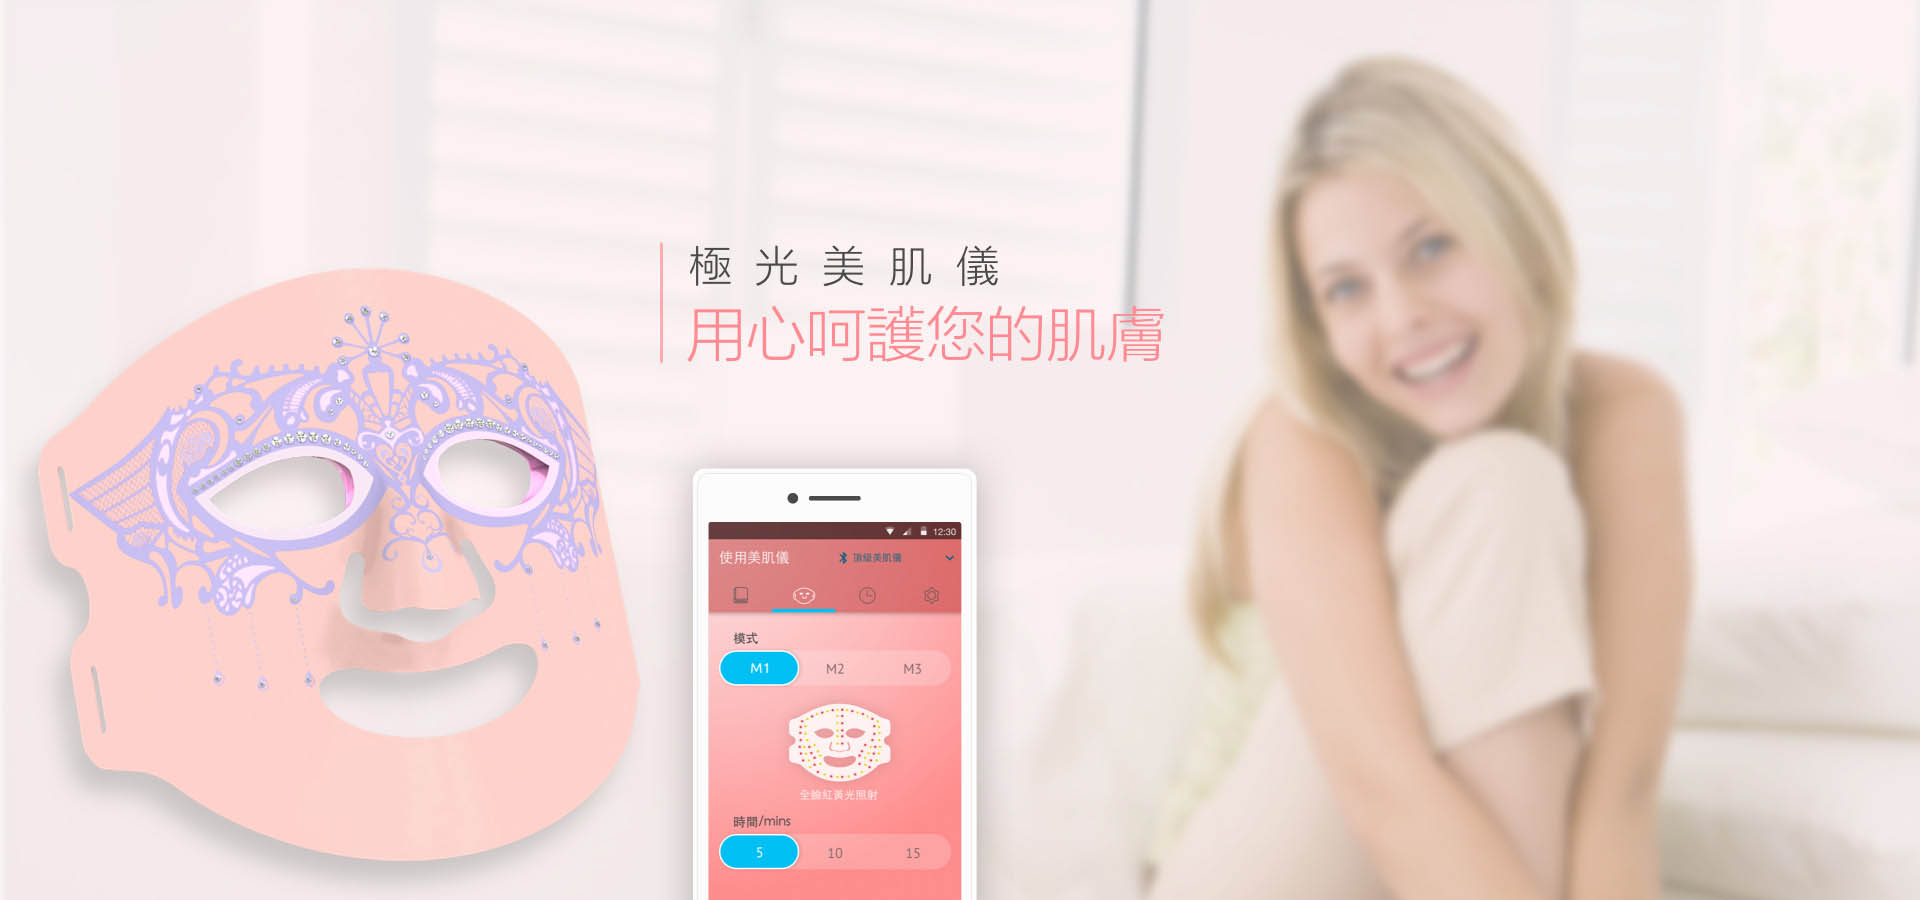
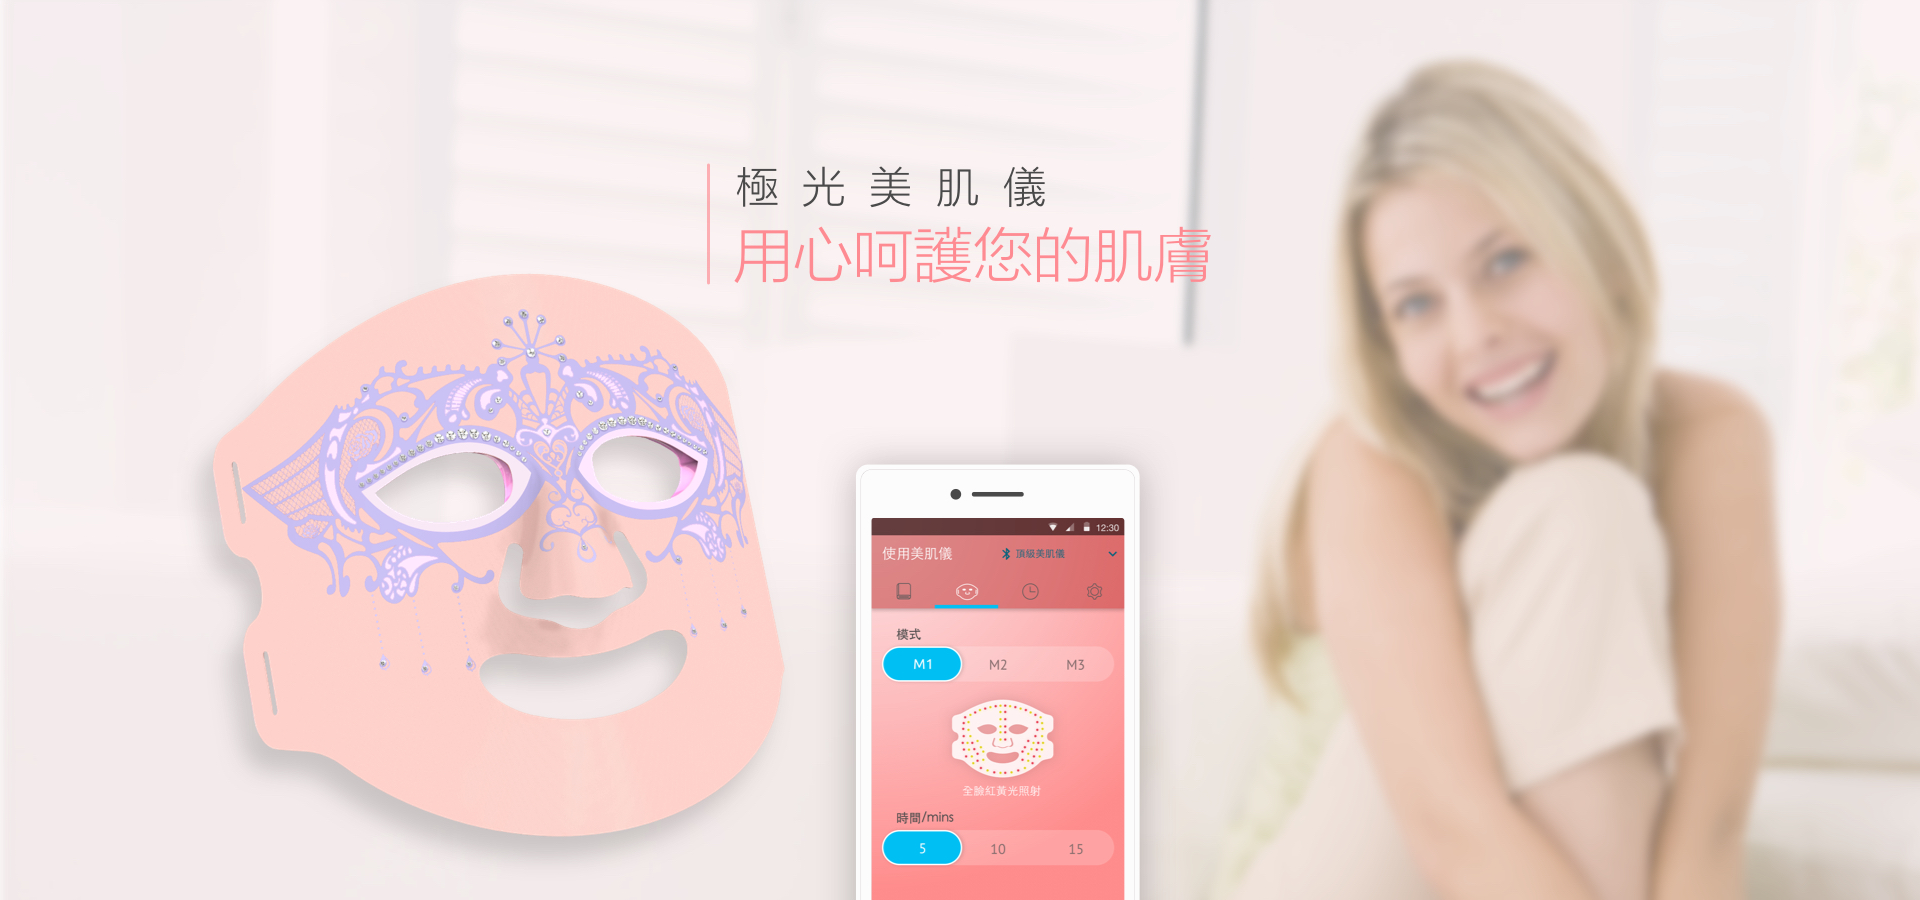
Add files via upload

diff --git a/index.html b/index.html
@@ -54,13 +54,13 @@
                                 <a href="#" data-id="intro" id="lang_nav_intro">產品介紹<span class="sr-only">(current)</span></a>
                             </li>
                             <li>
-                                <a href="#" data-id="contactus" id="lang_nav_contact">與我們聯絡</a>
+                                <a href="#" data-id="pspec" id="lang_nav_spec">產品規格</a>
                             </li>
                             <li>
                                 <a href="#" data-id="ddownload" id="lang_nav_download">下載</a>
                             </li>
                             <li>
-                                <a href="#" data-id="pspec" id="lang_nav_spec">產品規格</a>
+                                <a href="#" data-id="contactus" id="lang_nav_contact">與我們聯絡</a>
                             </li>
                             <!--  <li class="dropdown">
                                 <a href="#" class="dropdown-toggle" data-toggle="dropdown" role="button" aria-expanded="false" id="lang_nav_more">更多<span class="caret"></span></a>
@@ -183,7 +183,7 @@
                             <p class="stonee" id="lang_body_auromask_blue">平衡肌膚油水<br>擊退粗糙毛孔</p>
                         </div>
                     </div>
-                </div>                                                                                                                                                                                                                                                                                                                                                                                 
+                </div>                                                                                                                                                                                                                                                                                                                                                                                                 
             </div>
             <div class="col-md-6 COMEFROME_RIGHT">
                 <!--  <img src="images/img_prettywoman2.jpg" class="img-responsive">-->
@@ -290,7 +290,7 @@
                     <div class="col-md-6 col-xs-12 features_images">
                         <div class="row">
                             <div class="underlined-title">
-                                <h3 class="six" id="lang_body_sixfeatures">六大特點</h3>
+                                <h3 class="six" id="lang_body_sixfeatures">為什麼選擇極光美肌儀</h3>
                                 <hr>
                             </div>
                             <div class="col-md-4">
@@ -376,7 +376,7 @@
             <div class="container">
                 <div class="row">
                     <div class="underlined-title">
-                        <h3 id="lang_body_certificate">安心保證</h3>
+                        <h3 id="lang_body_certificate">為您的美麗嚴格把關</h3>
                         <hr>
                     </div>
                     <div class="col-md-6 col-xs-12">
@@ -579,7 +579,7 @@
             <div>
                 <div class="row">
                     <div class="col-sm-6 col-xs-12 content pull-left">
-                        <h3 id="lang_body_led">LED 光效說明</h3>
+                        <h3 id="lang_body_led">為什麼使用LED光源？</h3>
                         <p id="lang_body_led_cont1">LED是一種低能量的可見光源, 最初由美國太空總署(NASA)證實,使用特定波長LED光照射皮膚可刺激細胞增生,以及加速傷口癒合</p>
                         <p id="lang_body_led_cont2">國內外醫學研究及報導後續證實,LED紅光,黃光,藍光在特定波長範圍內確實對皮膚可產生不同功效</p>
                         <p class="introled" id="lang_body_led_cont3">生物刺激原理 （非侵入式, 無破壞性）</p>
@@ -706,40 +706,82 @@
 
     </section>
     ---->
-  <section id="contactus">
-      <div id="newsletter" class="container">
-          <div id="contactus" class="title">
-            <h2 id="lang_body_contactus">與我們聯絡</h2>
-            <span class="byline" id="lang_body_contactus_cont">若您有任何疑問，歡迎與我們聯繫</span>
-          </div>
-          <div class="row">
-            <div class="col-md-6 col-md-offset-3 wow fadeIn padding8p" data-wow-duration="1.5s" data-wow-delay="0.5s">
-                <form onsubmit="return false;">
-                    <div class="half">
-                        <div class="6u">
-                            <input type="text" class="text" name="name" placeholder="Name" id="userName" />
-                        </div>
-                        <div class="6u">
-                            <input type="text" class="text" name="email" placeholder="Email" id="userEmail" />
-                        </div>
-                    </div>
-                    <div class="half">
-                        <div class="12u">
-                            <textarea name="message" placeholder="Message" id="userMessage"></textarea>
-                        </div>
-                    </div>
-                    <div class="row">
-                        <div class="12u">
-                            <a class="button" onclick="sendMessage()" id="lang_body_contactus_button">發送訊息</a>
-                        </div>
-                    </div>
-                </form>
+<!--Product Spec---->
+<section id="spec" class="SPEC_BG bg-offwhite">
+    <div id="pspec" class="container">
+        <!---<img src="images/PM2.52_bg.jpg" class="img-responsive center-block">-->
+        <div class="row">
+            <div class="col-md-12">
+                <div class="underlined-title">
+                    <h3 id="lang_body_spec">產品規格</h3>
+                    <hr>
+                </div>
+            </div>
+            <div class="row">
+                <div class="col-md-8 col-md-offset-2">
+                    <table class="table table-striped" style="width:100%">
+                        <caption></caption>
+                        <thead>
+                            <!--<tr>
+                                    <th id="lang_body_spec_left_tl">Item</th>
+                                    <th id="lang_body_spec_right_tl">Description</th>
+                                </tr>---->
+                        </thead>
+                        <tbody>
+                            <tr>
+                                <td id="lang_body_spec_left_cont1">LED燈數</td>
+                                <td id="lang_body_spec_right_cont1">經典: 紅光-90顆 or 黃光-90顆<br>頂級: 紅光-45顆+黃光-45顆+藍光-57顆 (總共147顆)</td>
+                            </tr>
+                            <tr>
+                                <td id="lang_body_spec_left_cont2">輸入電壓</td>
+                                <td id="lang_body_spec_right_cont2">AC 100-240V</td>
+                            </tr>
+                            <tr>
+                                <td id="lang_body_spec_left_cont3">輸入頻率</td>
+                                <td id="lang_body_spec_right_cont3">50-60HZ</td>
+                            </tr>
+                            <tr>
+                                <td id="lang_body_spec_left_cont4">輸出電壓</td>
+                                <td id="lang_body_spec_right_cont4">DC 5V/2A</td>
+                            </tr>
+                            <tr>
+                                <td id="lang_body_spec_left_cont5">電池續航力</td>
+                                <td id="lang_body_spec_right_cont5">充飽電可使用約60分鐘</td>
+                            </tr>
+                            <tr>
+                                <td id="lang_body_spec_left_cont6">體感溫度</td>
+                                <td id="lang_body_spec_right_cont6">37 °C +/ - 2 °C</td>
+                            </tr>
+                            <tr>
+                                <td id="lang_body_spec_left_cont7">無線功能</td>
+                                <td id="lang_body_spec_right_cont7">低功率藍芽 (BLE)</td>
+                            </td>
+                            <tr>
+                                <td id="lang_body_spec_left_cont8">面膜尺寸</td>
+                                <td id="lang_body_spec_right_cont8">270mm x 204mmx15.6mm</td>
+                            </td>
+                            <tr>
+                                <td id="lang_body_spec_left_cont9">控制器尺寸</td>
+                                <td id="lang_body_spec_right_cont9">50mm x 86mm x29.8mm</td>
+                            </td>
+                            <tr>
+                                <td id="lang_body_spec_left_cont10">面膜重量</td>
+                                <td id="lang_body_spec_right_cont10">150g</td>
+                            </td>
+                            <tr>
+                                <td id="lang_body_spec_left_cont11">控制器重量</td>
+                                <td id="lang_body_spec_right_cont11">90g</td>
+                            </td>
+                        </tr>
+                    </tbody>
+                </table>
             </div>
         </div>
     </div>
 </section>
+<!---End of Product Spec--->
 <!--Download-->
-<section id="load" class="DOWNLOAD bg-offwhite">
+<section id="load" class="DOWNLOAD bg-white">
     <div id="ddownload" class="container">
         <div class="underlined-title">
             <h3 id="lang_body_dowmload">下載</h3>
@@ -788,11 +830,45 @@
                 </div>
             </div>
             <!--<div class="row">
-              <div class="col-md-4 BUTTON" >
-              <a href="http://www.eql.com.tw/homePage.html" target="_blank">DOWNLOAD</a>
-              </div>
-            </div>-->
+                  <div class="col-md-4 BUTTON" >
+                  <a href="http://www.eql.com.tw/homePage.html" target="_blank">DOWNLOAD</a>
+                  </div>
+                </div>-->
         </div>
+</section>
+<!--End of Download-->
+<!-- Contact Us-->
+<section id="contactus">
+    <div id="newsletter" class="container">
+        <div id="contactus" class="title">
+            <h2 id="lang_body_contactus">與我們聯絡</h2>
+            <span class="byline" id="lang_body_contactus_cont">若您有任何疑問，歡迎與我們聯繫</span>
+        </div>
+        <div class="row">
+            <div class="col-md-6 col-md-offset-3 wow fadeIn padding8p" data-wow-duration="1.5s" data-wow-delay="0.5s">
+                <form onsubmit="return false;">
+                    <div class="half">
+                        <div class="6u">
+                            <input type="text" class="text" name="name" placeholder="Name" id="userName" />
+                        </div>
+                        <div class="6u">
+                            <input type="text" class="text" name="email" placeholder="Email" id="userEmail" />
+                        </div>
+                    </div>
+                    <div class="half">
+                        <div class="12u">
+                            <textarea name="message" placeholder="Message" id="userMessage"></textarea>
+                        </div>
+                    </div>
+                    <div class="row">
+                        <div class="12u">
+                            <a class="button" onclick="sendMessage()" id="lang_body_contactus_button">發送訊息</a>
+                        </div>
+                    </div>
+                </form>
+            </div>
+        </div>
+    </div>
 </section>
 <!--  <section class="content-block pricing-table-2">
             <div class="container">
@@ -851,78 +927,6 @@
             </div>
 
         </section> ------>
-<section id="spec" class="SPEC_BG bg-clouds">
-    <div id="pspec" class="container">
-        <!---<img src="images/PM2.52_bg.jpg" class="img-responsive center-block">-->
-        <div class="row">
-            <div class="col-md-12">
-                <div class="underlined-title">
-                    <h3 id="lang_body_spec">產品規格</h3>
-                    <hr>
-                </div>
-            </div>
-            <div class="row">
-                <div class="col-md-8 col-md-offset-2">
-                    <table class="table" style="width:80%">
-                        <caption></caption>
-                        <thead>
-                            <!--<tr>
-                                <th id="lang_body_spec_left_tl">Item</th>
-                                <th id="lang_body_spec_right_tl">Description</th>
-                            </tr>---->
-                        </thead>
-                        <tbody>
-                            <tr>
-                                <td id="lang_body_spec_left_cont1">LED燈數</td>
-                                <td id="lang_body_spec_right_cont1">經典: 紅光-90顆 or 黃光-90顆<br>頂級: 紅光-45顆+黃光-45顆+藍光-57顆 (總共147顆)</td>
-                            </tr>
-                            <tr>
-                                <td id="lang_body_spec_left_cont2">輸入電壓</td>
-                                <td id="lang_body_spec_right_cont2">AC 100-240V</td>
-                            </tr>
-                            <tr>
-                                <td id="lang_body_spec_left_cont3">輸入頻率</td>
-                                <td id="lang_body_spec_right_cont3">50-60HZ</td>
-                            </tr>
-                            <tr>
-                                <td id="lang_body_spec_left_cont4">輸出電壓</td>
-                                <td id="lang_body_spec_right_cont4">DC 5V/2A</td>
-                            </tr>
-                            <tr>
-                                <td id="lang_body_spec_left_cont5">電池續航力</td>
-                                <td id="lang_body_spec_right_cont5">充飽電可使用約60分鐘</td>
-                            </tr>
-                            <tr>
-                                <td id="lang_body_spec_left_cont6">體感溫度</td>
-                                <td id="lang_body_spec_right_cont6">37 °C +/ - 2 °C</td>
-                            </tr>
-                            <tr>
-                                <td id="lang_body_spec_left_cont7">無線功能</td>
-                                <td id="lang_body_spec_right_cont7">低功率藍芽 (BLE)</td>
-                            </td>
-                            <tr>
-                                <td id="lang_body_spec_left_cont8">面膜尺寸</td>
-                                <td id="lang_body_spec_right_cont8">270mm x 204mmx15.6mm</td>
-                            </td>
-                            <tr>
-                                <td id="lang_body_spec_left_cont9">控制器尺寸</td>
-                                <td id="lang_body_spec_right_cont9">50mm x 86mm x29.8mm</td>
-                            </td>
-                            <tr>
-                                <td id="lang_body_spec_left_cont10">面膜重量</td>
-                                <td id="lang_body_spec_right_cont10">150g</td>
-                            </td>
-                            <tr>
-                                <td id="lang_body_spec_left_cont11">控制器重量</td>
-                                <td id="lang_body_spec_right_cont11">90g</td>
-                            </td>
-                        </tr>
-                    </tbody>
-                </table>
-            </div>
-        </div>
-    </div>
-</section>
 <!-- <section id="content-2-6" class="content-block content-2-6 weather">
             <div class="container text-center">
                 <div class="col-sm-10 col-sm-offset-1">
@@ -1059,6 +1063,3 @@
 <script type="text/javascript" src="components/pg.blocks/js/bskit-scripts.js"></script>
 <script type="text/javascript" src="https://maps.google.com/maps/api/js?sensor=true"></script>
 <script type="text/javascript" src="js/J_S_Multi_language_LT_v0.9.js"></script>
-
-</body>
-</html>

diff --git a/css/eql_essence.css b/css/eql_essence.css
@@ -188,7 +188,7 @@
 }
 
 .COMEFROME_RIGHT {
-	background-image: url(../images/img_prettywoman2.jpg);
+	background-image: url(../images/img_prettywoman03.jpg);
 	background-position: center center;
   background-size: cover;
   padding: 0;
@@ -414,7 +414,6 @@ padding-bottom: 60px;
 padding-top: 5px;
 padding-bottom: 5px;
 text-align: center;
-display: inline-block;
 }
 
 .ledstatus_text{
@@ -622,10 +621,9 @@ margin: 0 auto;
 width: auto;
 height: auto;
 display: block;
-background-color: grey;
-background-image: url(../images/spec_bg.jpg);
+/*background-image: url(../images/spec_bg.jpg);
 background-position: right bottom;;
-background-size: cover;
+background-size: cover;*/
 padding-top: 60px;
 padding-bottom: 100px;
 }
@@ -646,7 +644,6 @@ padding-bottom: 100px;
 }
 .SPEC_BG th{
 font-weight: bolder;
-
 }
 
 
